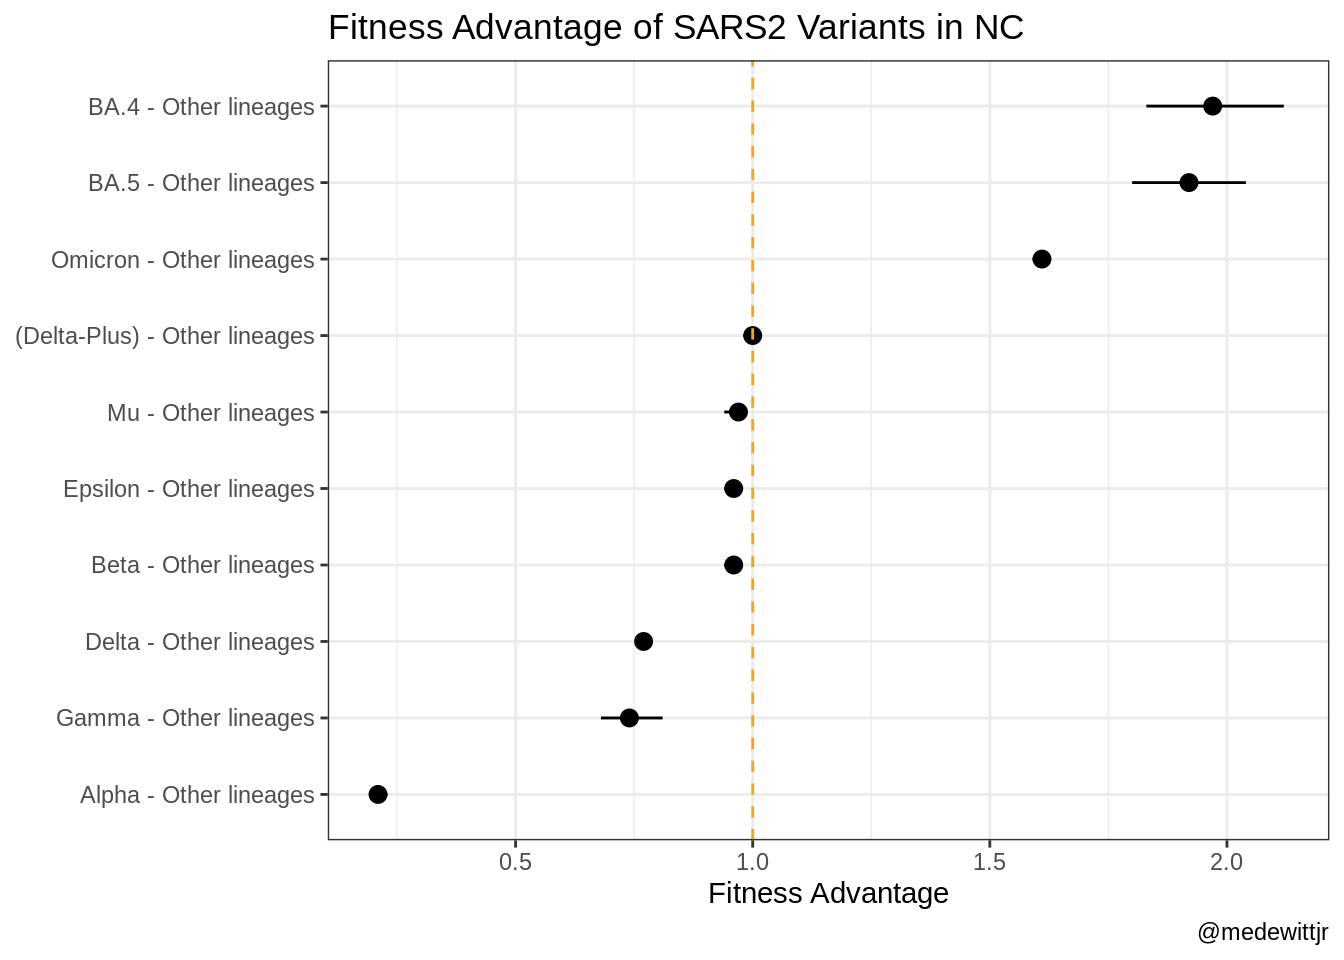
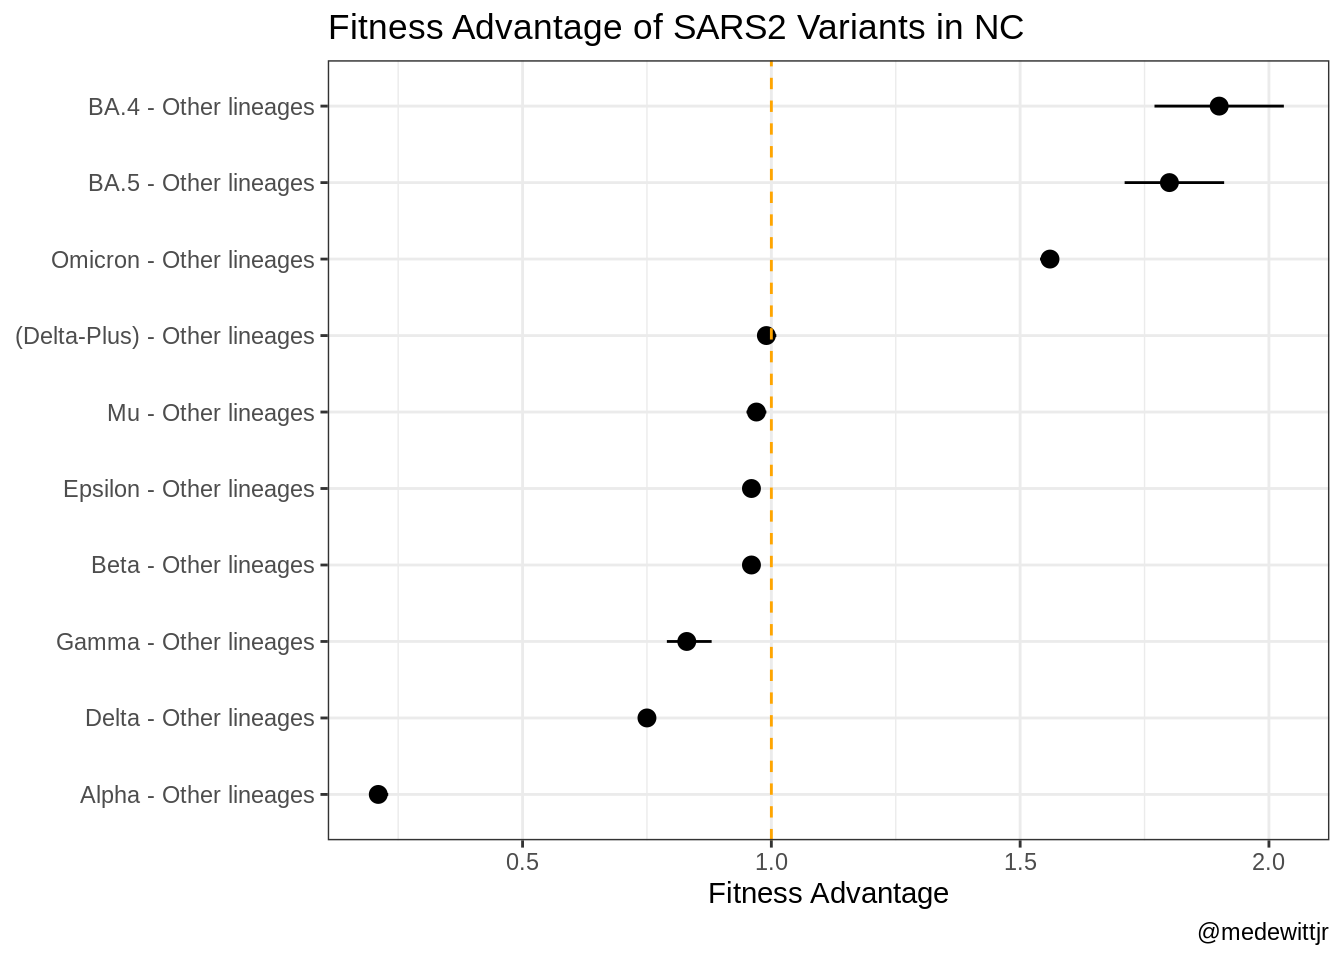
Update the latest data

diff --git a/docs/index.html b/docs/index.html
@@ -167,56 +167,56 @@ ul.task-list li input[type="checkbox"] {
 <tr class="even">
 <td style="text-align: left;">Beta - Other lineages</td>
 <td style="text-align: right;">0.96</td>
-<td style="text-align: right;">0.94</td>
+<td style="text-align: right;">0.95</td>
 <td style="text-align: right;">0.97</td>
 </tr>
 <tr class="odd">
 <td style="text-align: left;">Delta - Other lineages</td>
-<td style="text-align: right;">0.77</td>
+<td style="text-align: right;">0.75</td>
+<td style="text-align: right;">0.74</td>
 <td style="text-align: right;">0.76</td>
-<td style="text-align: right;">0.77</td>
 </tr>
 <tr class="even">
 <td style="text-align: left;">(Delta-Plus) - Other lineages</td>
-<td style="text-align: right;">1.00</td>
+<td style="text-align: right;">0.99</td>
 <td style="text-align: right;">0.98</td>
 <td style="text-align: right;">1.01</td>
 </tr>
 <tr class="odd">
 <td style="text-align: left;">Gamma - Other lineages</td>
-<td style="text-align: right;">0.74</td>
-<td style="text-align: right;">0.68</td>
-<td style="text-align: right;">0.81</td>
+<td style="text-align: right;">0.83</td>
+<td style="text-align: right;">0.79</td>
+<td style="text-align: right;">0.88</td>
 </tr>
 <tr class="even">
 <td style="text-align: left;">Epsilon - Other lineages</td>
 <td style="text-align: right;">0.96</td>
-<td style="text-align: right;">0.94</td>
+<td style="text-align: right;">0.95</td>
 <td style="text-align: right;">0.97</td>
 </tr>
 <tr class="odd">
 <td style="text-align: left;">Mu - Other lineages</td>
 <td style="text-align: right;">0.97</td>
-<td style="text-align: right;">0.94</td>
+<td style="text-align: right;">0.95</td>
 <td style="text-align: right;">0.99</td>
 </tr>
 <tr class="even">
 <td style="text-align: left;">Omicron - Other lineages</td>
-<td style="text-align: right;">1.61</td>
-<td style="text-align: right;">1.59</td>
-<td style="text-align: right;">1.62</td>
+<td style="text-align: right;">1.56</td>
+<td style="text-align: right;">1.54</td>
+<td style="text-align: right;">1.57</td>
 </tr>
 <tr class="odd">
 <td style="text-align: left;">BA.4 - Other lineages</td>
-<td style="text-align: right;">1.97</td>
-<td style="text-align: right;">1.83</td>
-<td style="text-align: right;">2.12</td>
+<td style="text-align: right;">1.90</td>
+<td style="text-align: right;">1.77</td>
+<td style="text-align: right;">2.03</td>
 </tr>
 <tr class="even">
 <td style="text-align: left;">BA.5 - Other lineages</td>
-<td style="text-align: right;">1.92</td>
 <td style="text-align: right;">1.80</td>
-<td style="text-align: right;">2.04</td>
+<td style="text-align: right;">1.71</td>
+<td style="text-align: right;">1.91</td>
 </tr>
 </tbody>
 </table>
